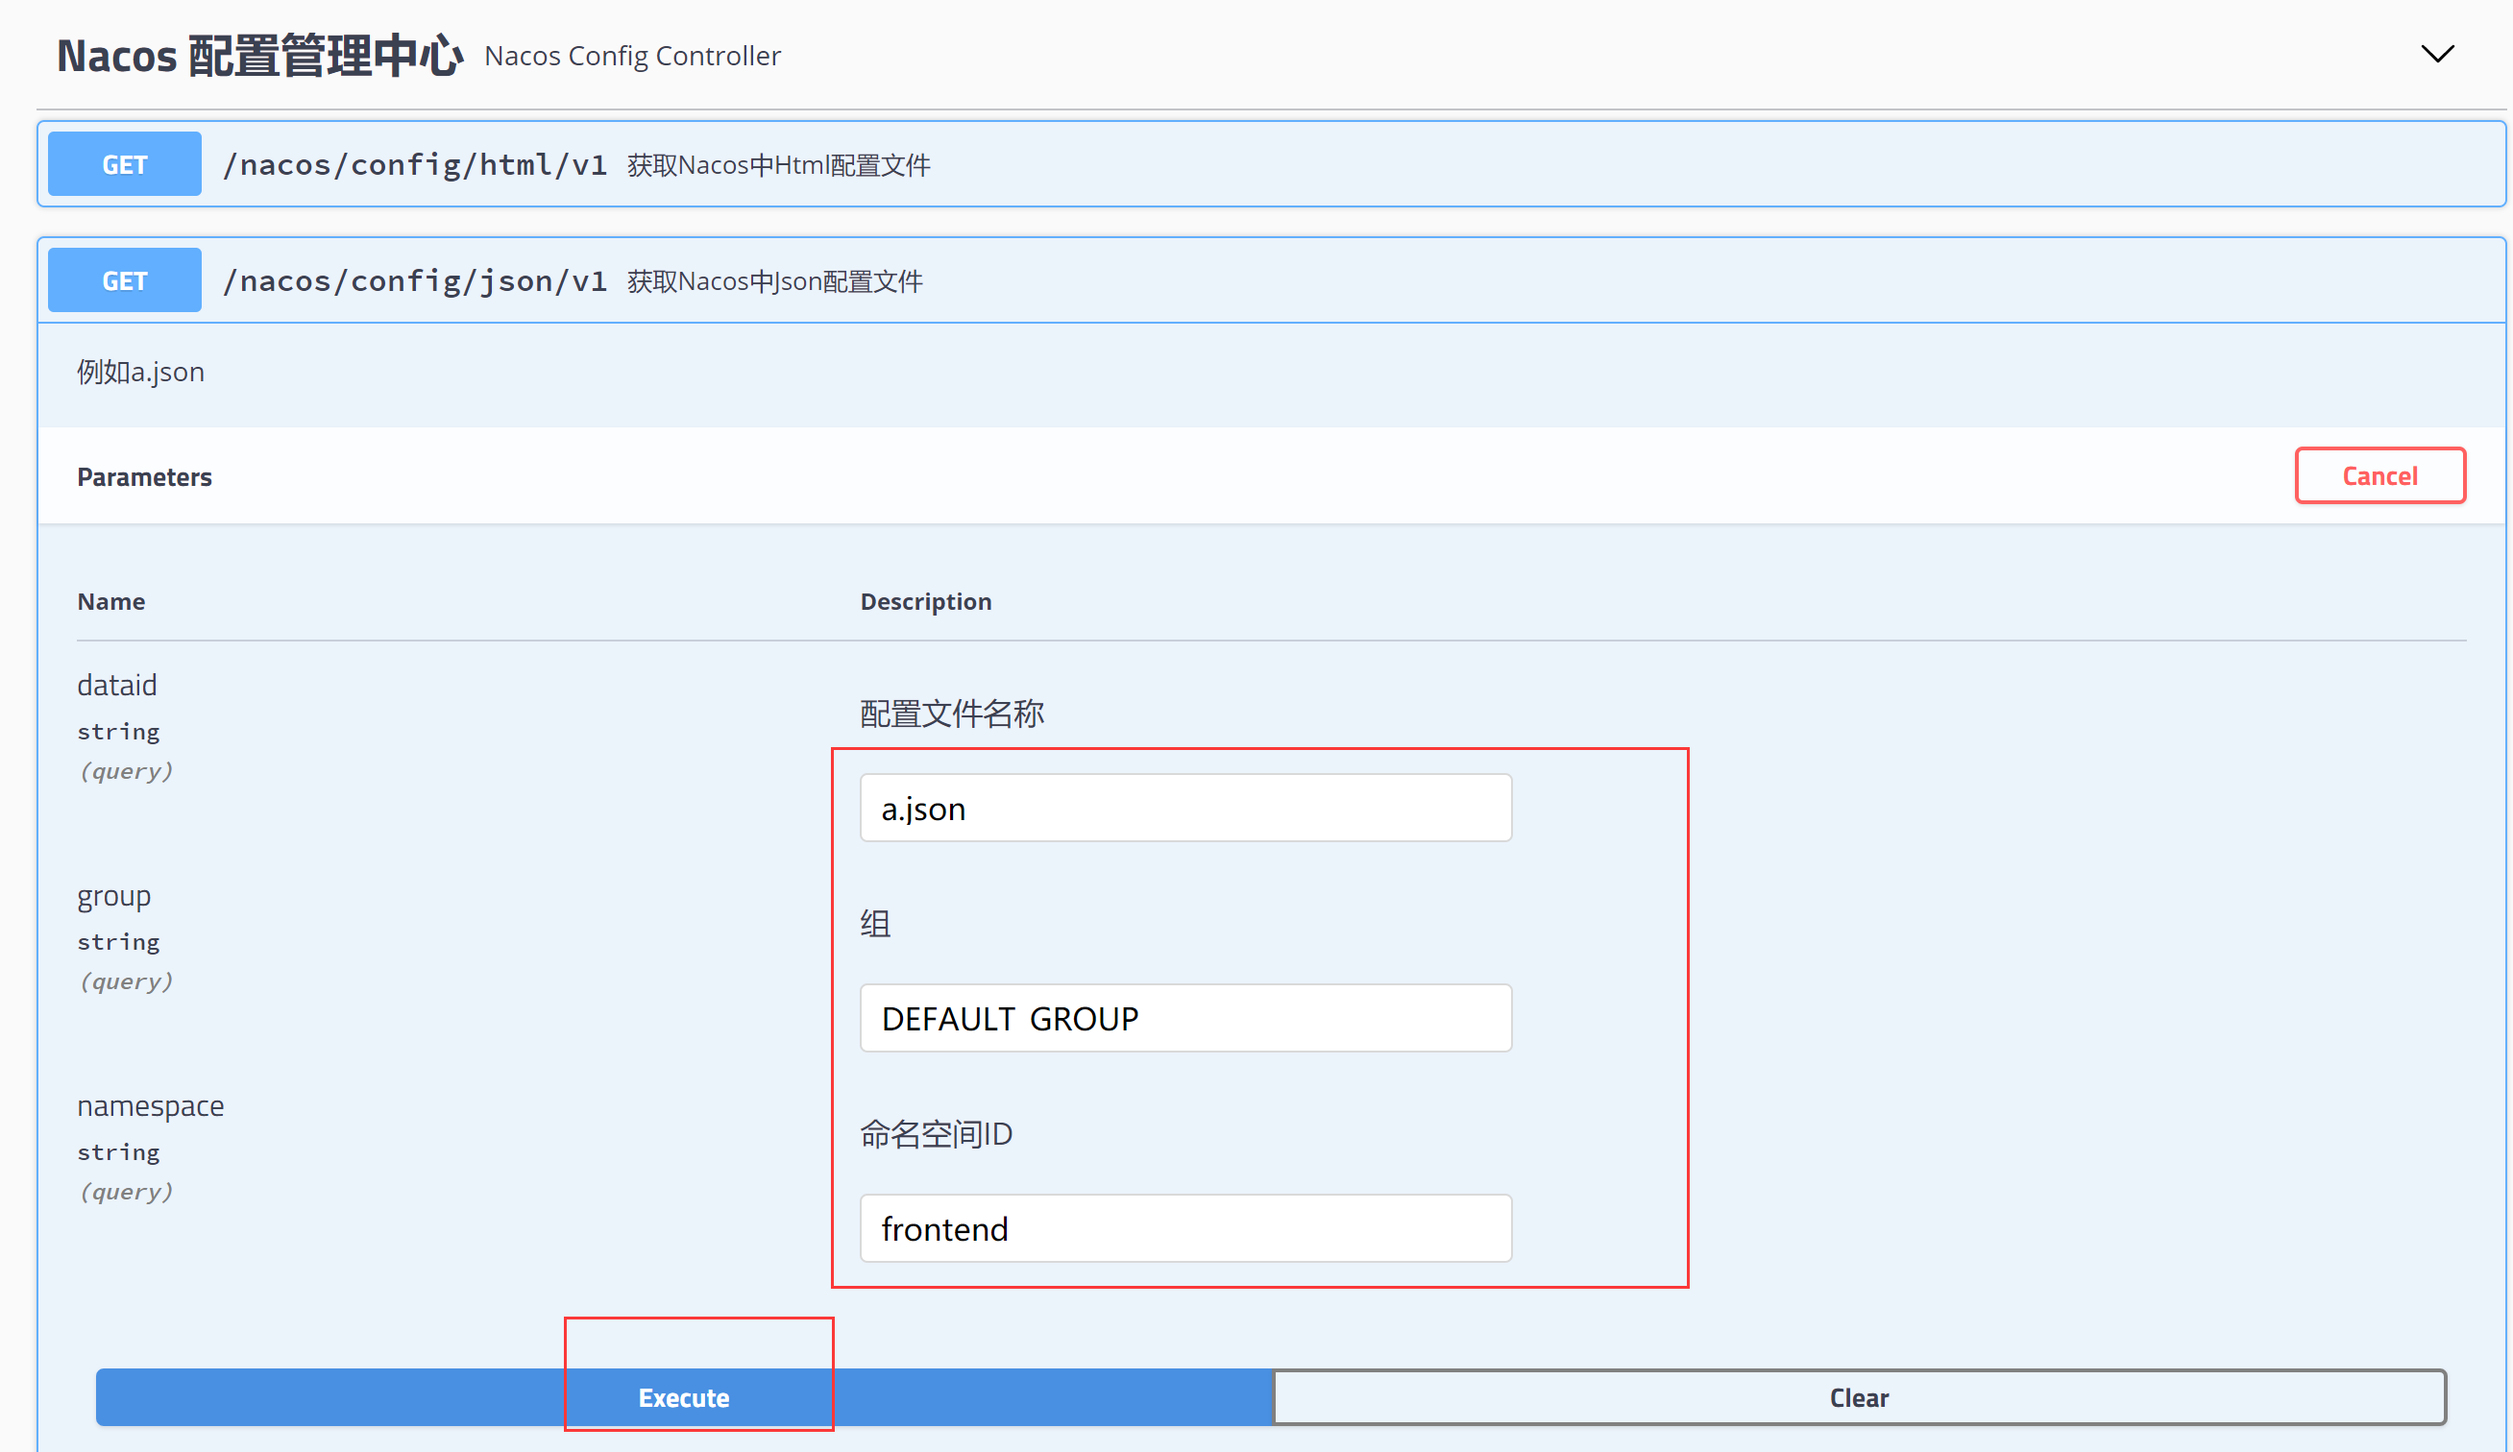
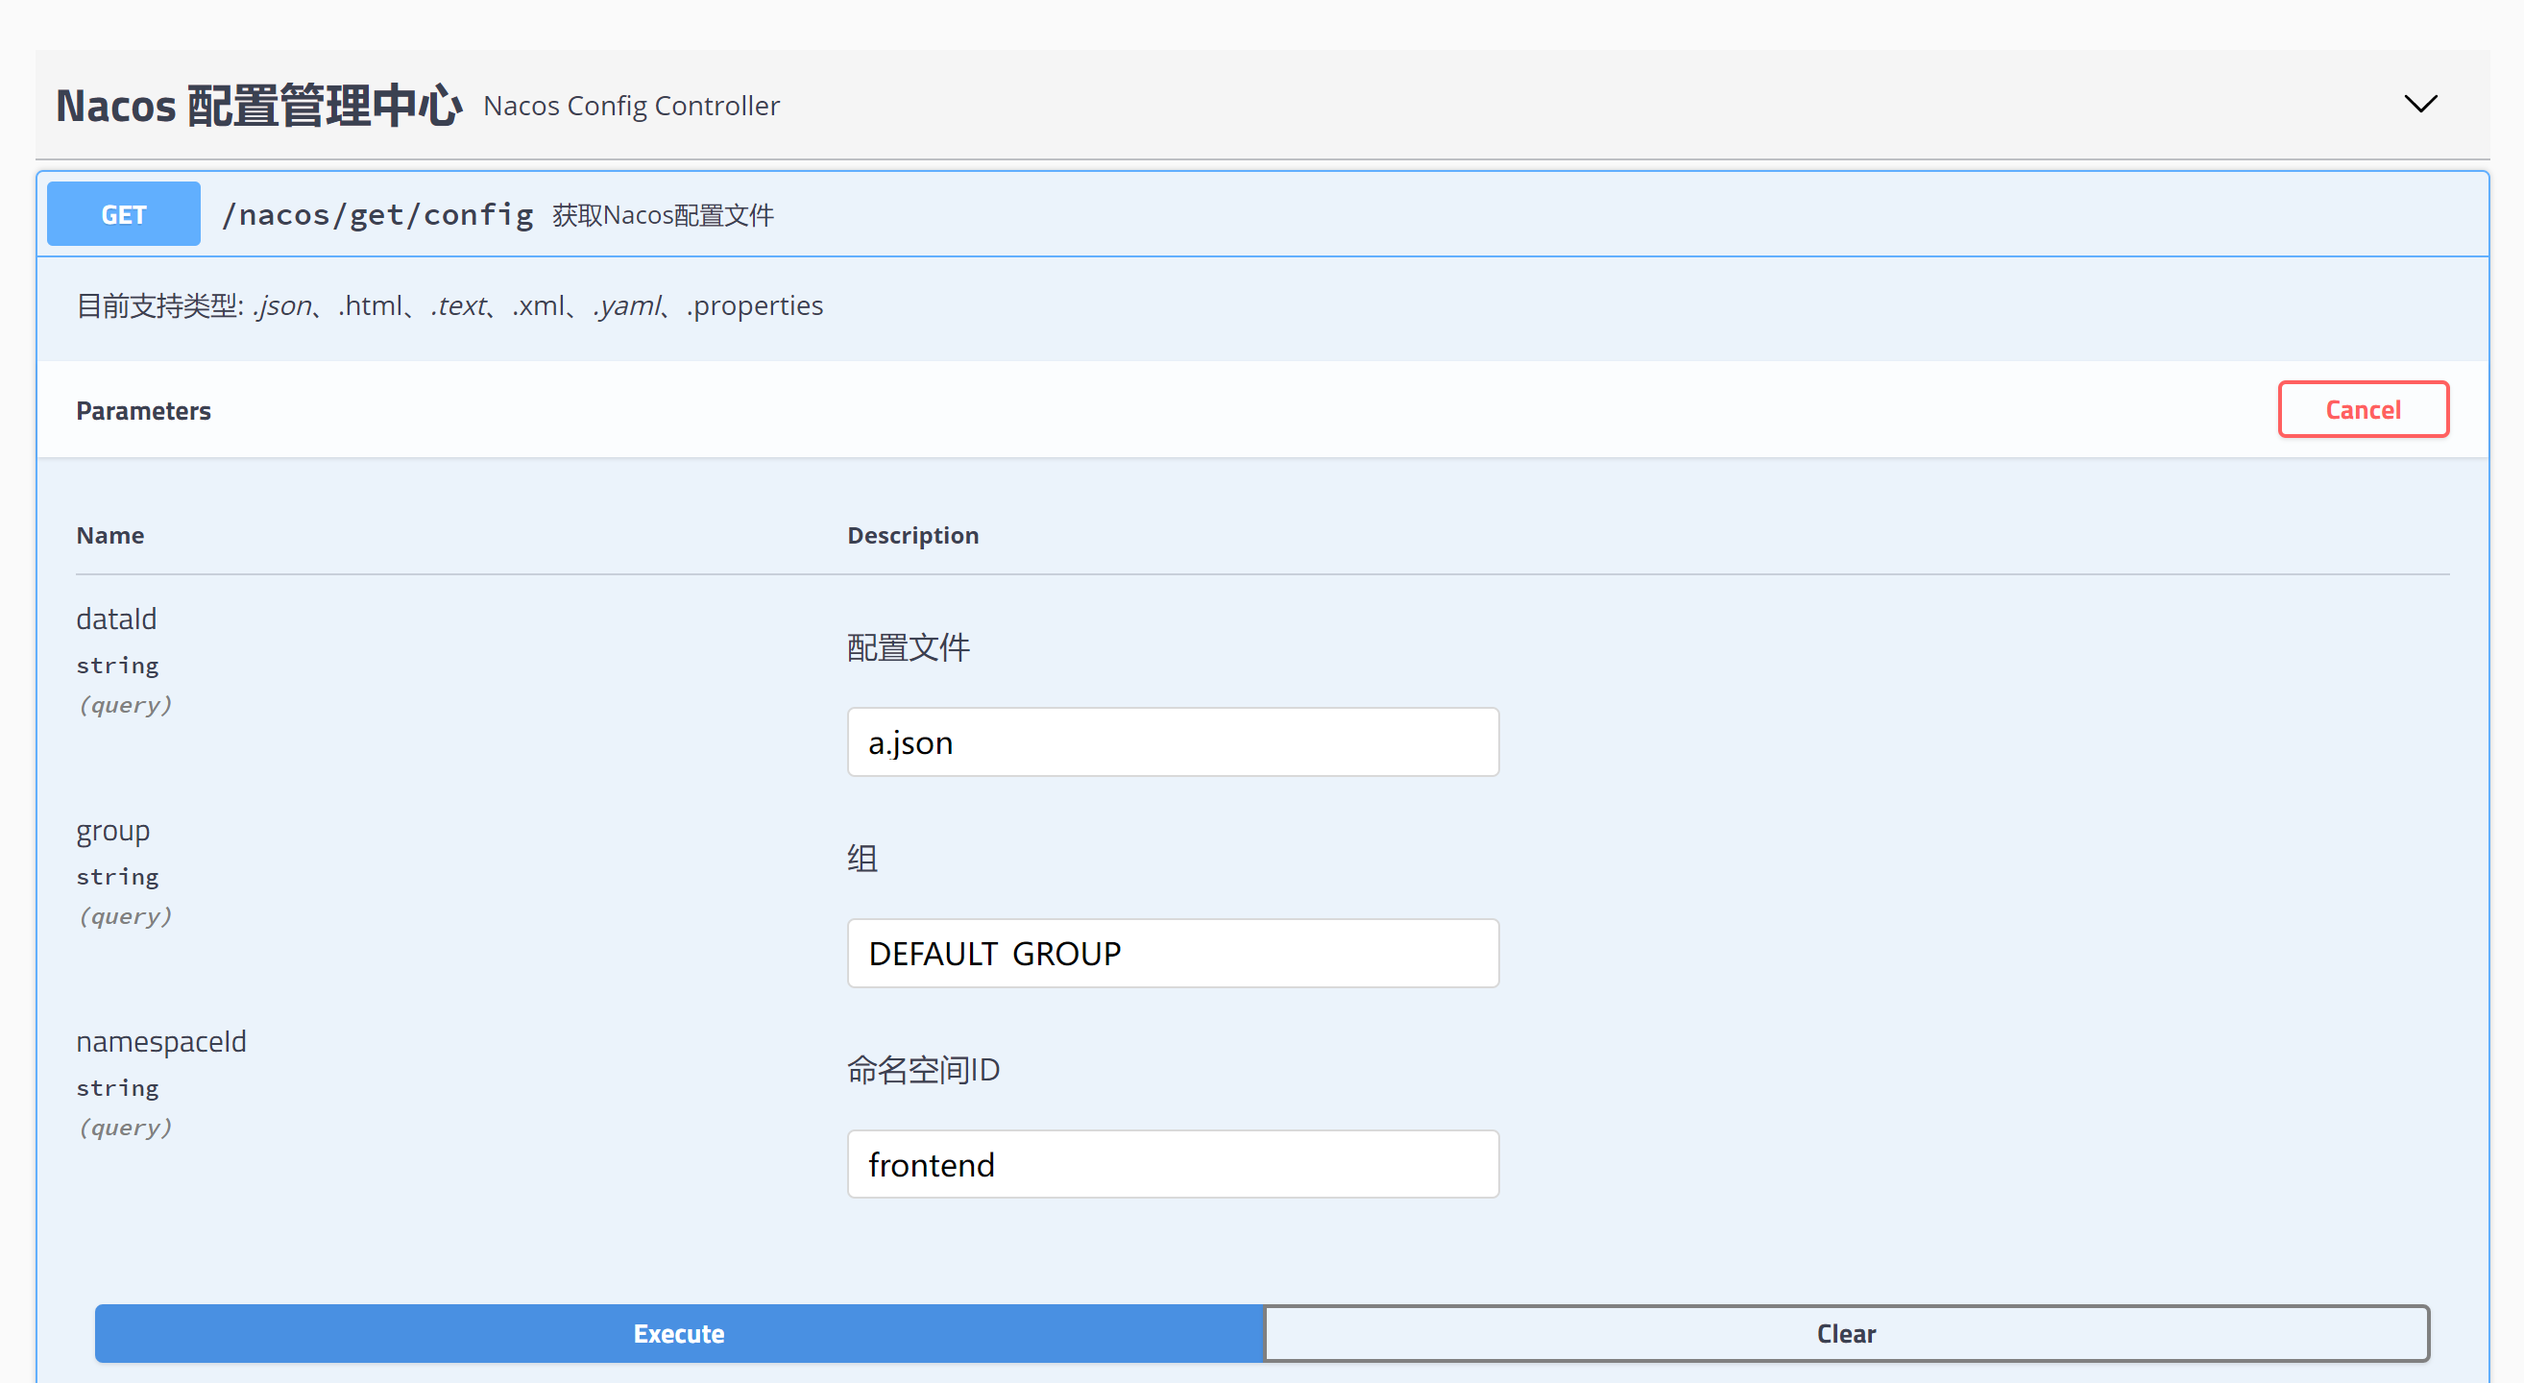
doc 更新文档

diff --git a/README.md b/README.md
@@ -48,21 +48,20 @@ white:
 访问swagger地址：http://127.0.0.1:8080/nacos-config-frontend-web/swagger-ui.html#/
 目前支持读取nacos中的 json、text、html等配置文件内容
 
-![4.png](image/4.png)
 ![5.png](image/5.png)
 
 返回数据
 ![6.png](image/6.png)
 
-请求接口：http://127.0.0.1:8080/nacos-config-frontend-web/nacos/config/json/v1?dataid=a.json&group=DEFAULT_GROUP&namespace=frontend
+请求接口：http://127.0.0.1:8080/nacos-config-frontend-web/nacos/get/config?dataId=a.json&group=DEFAULT_GROUP&namespaceId=frontend
 
 
 #### 前端接入后台读取nacos配置
 
-例如，读取json配置文件内容
-http://127.0.0.1:8080/nacos-config-frontend-web/nacos/config/json/v1?dataid=a.json&group=DEFAULT_GROUP&namespace=frontend
+示例：读取json配置文件内容
+http://127.0.0.1:8080/nacos-config-frontend-web/nacos/get/config?dataId=a.json&group=DEFAULT_GROUP&namespaceId=frontend
 
->请求参数：dataid 配置文件名称，group 组，namespace 命名空间 ，参数是对应nacos配置的
+>请求参数：dataId 配置文件名称，group 组，namespaceId 命名空间ID ，参数是对应nacos配置的
 
 获取json内容
 ```json
